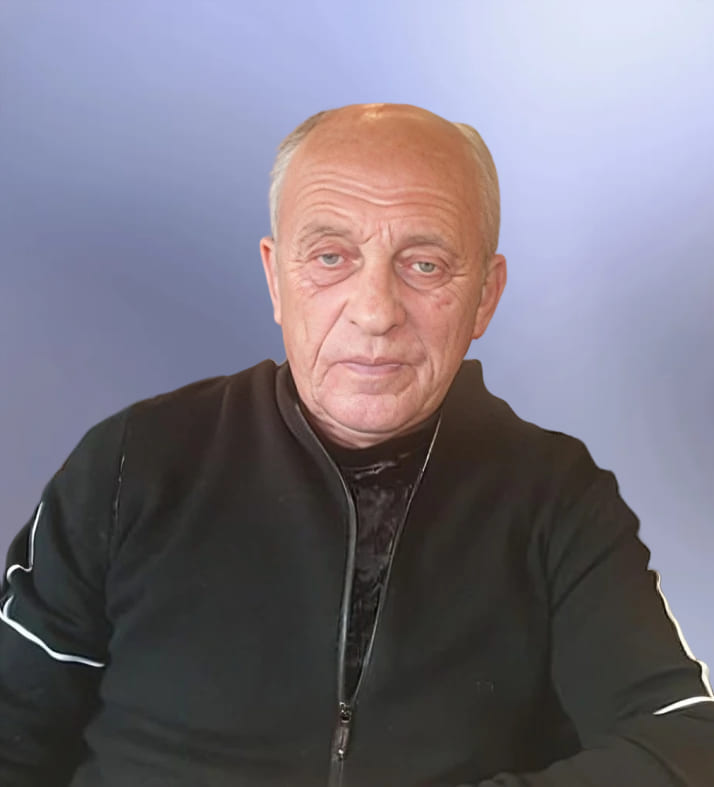
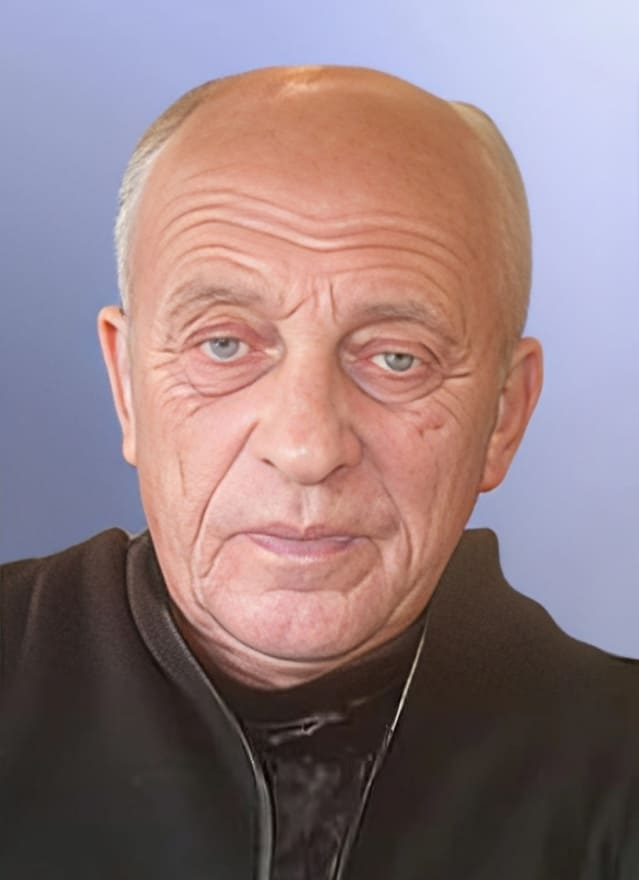
ileya rubin

diff --git a/database.js b/database.js
@@ -10724,5 +10724,38 @@ window.db = {
       ],
       "spouse": null
     }
+  },
+  "person_ileya_rubin": {
+    "id": "person_ileya_rubin",
+    "name": {
+      "ru": "Илья Михайлович Рубин",
+      "en": "Ileya Michailovich Rubin"
+    },
+    "years": "? -",
+    "mainPhoto": "photos/ileya_rubin.jpg",
+    "milestones": {
+      "birthPlace": {
+        "ru": ""
+      },
+      "marriage": {
+        "ru": ""
+      },
+      "occupation": {
+        "ru": ""
+      },
+      "burial": {
+        "ru": ""
+      }
+    },
+    "bio": {
+      "ru": "",
+      "en": ""
+    },
+    "links": {
+      "parents": [
+        "person_michael_rubin"
+      ],
+      "spouse": null
+    }
   }
 };
